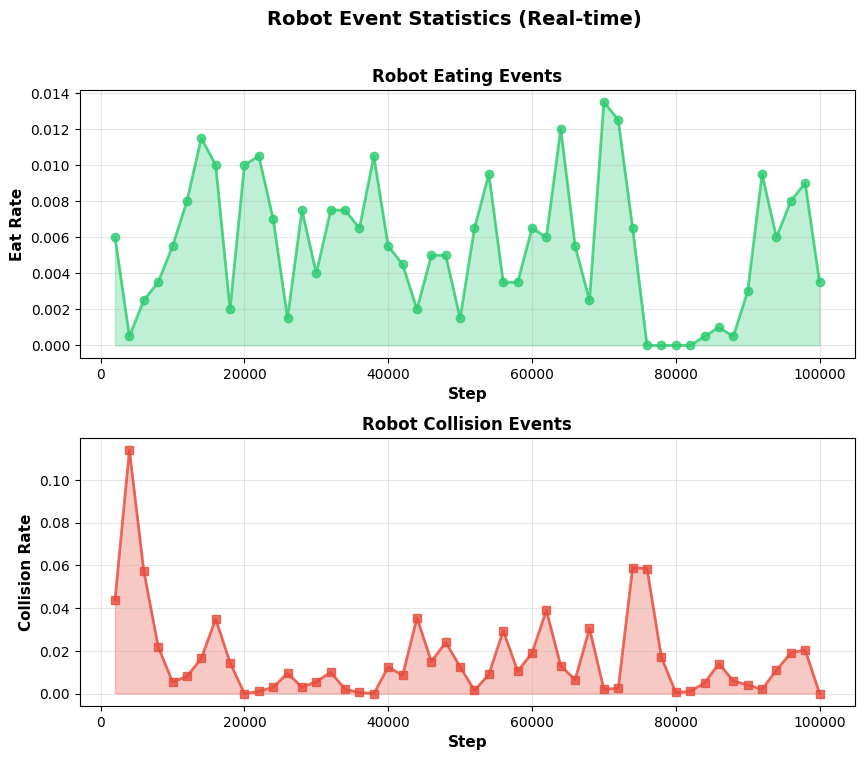
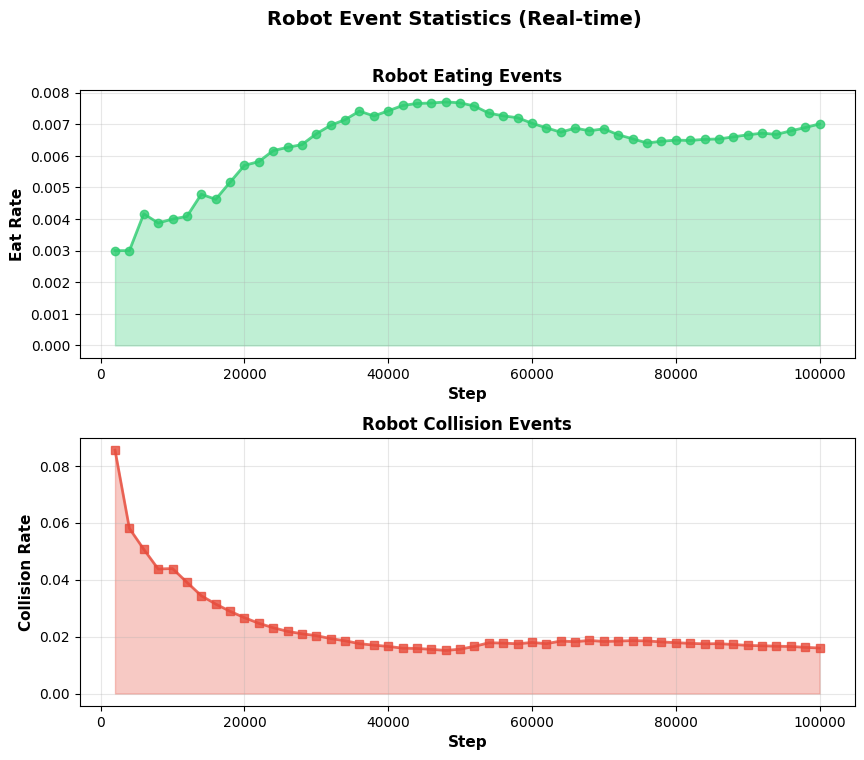
feat:make correction on variable used on plot & code clean up

diff --git a/Assignment6/PyRLSimbot/Assignment_6.py b/Assignment6/PyRLSimbot/Assignment_6.py
@@ -48,8 +48,6 @@ TURN_DEGREE = 18
 
 # Distance buckets for discretising state space
 CLOSE_DISTANCE = 15
-NEAR_DISTANCE = 20
-
 
 MAP_PATH = Path(__file__).with_name("maps").joinpath("default_map.kv")
 MAX_FOOD_DISTANCE = math.hypot(SIMBOTMAP_SIZE[0], SIMBOTMAP_SIZE[1])
@@ -134,11 +132,8 @@ class RL_Robot(Robot):
     # -------------------------- Helpers for state/action --------------------------
 
     def _discretize_distance(self, distance: float, interval: int = 5) -> int:
-        # Clean, deterministic discretization (0 = very close, 3 = far)
         if distance < CLOSE_DISTANCE:
             return 0
-        # if distance < NEAR_DISTANCE:
-        #     return 1
         return 1
 
     def _discretize_smell(self, angle: float) -> int:
@@ -199,15 +194,14 @@ class RL_Robot(Robot):
         next_angle: float,
         prev_distance: float,
         next_distance: float,
-        traverse_distance: float
     ) -> float:
         reward = -0.05  # time penalty to encourage shorter solutions
 
         if action_idx == 0:
             if self.stuck:
-                reward -= 3
+                reward -= 3 # move forward to wall is no good
             elif abs(prev_angle) < 15:
-                reward += 1
+                reward += 1 # move while facing toward food is good
             else:
                 reward += 0.05 # small reward for able to move
         else: # base penalty for unnecessary  turn (will be zero sum by below term)
@@ -225,7 +219,7 @@ class RL_Robot(Robot):
             print(f"[SPIN] Step {step_counter}: Full circle detected! total_rotation={self.total_rotation:.1f}°")
             self.total_rotation = self.total_rotation % 360  # Reset to remaining angle
         
-        if (prev_action == 1 and action_idx == 2) or (prev_action == 2 and action_idx == 1): # alternating spin
+        if (prev_action == 1 and action_idx == 2) or (prev_action == 2 and action_idx == 1): # alternating spin penalty
             reward -= 3
 
         if prev_angle != -1 and next_angle != -1:
@@ -233,21 +227,14 @@ class RL_Robot(Robot):
             reward += 0.02 * (abs(prev_angle) - abs(next_angle))
 
         if self.just_eat:
-            # huge reward
+            # huge reward for eating
             reward += 8
-
 
         if prev_distance is not None and next_distance is not None:
             # reward for closer in distance
             phi_prev = self._potential(prev_distance)
             phi_next = self._potential(next_distance)
-            # if phi_next > phi_prev:
-            #     reward += POTENTIAL_WEIGHT
-            # else:
-            #     reward -= POTENTIAL_WEIGHT
             reward += POTENTIAL_WEIGHT * (phi_next - phi_prev)
-        # if next_distance > 100:
-        #     reward -= 2.5
         
         return reward
 
@@ -283,17 +270,13 @@ class RL_Robot(Robot):
         self.just_eat = False
         current_state, prev_angle = self._observe()
         prev_distance = self._food_distance()
-        prev_x, prev_y = self.pos
 
         action_idx = self._select_action(current_state)
         self._apply_action(action_idx)
         
-
-        next_x, next_y = self.pos
-        distance_moved = euclidian_distance( prev_x, prev_y, next_x, next_y)
         next_state, next_angle = self._observe()
         next_distance = self._food_distance()
-        reward = self._calculate_reward(prev_action ,action_idx, prev_angle, next_angle, prev_distance, next_distance, distance_moved)
+        reward = self._calculate_reward(prev_action ,action_idx, prev_angle, next_angle, prev_distance, next_distance)
         prev_action = action_idx
         self._update_q_values(current_state, action_idx, reward, next_state)
         self._decay_hyperparameters()
@@ -307,20 +290,15 @@ class RL_Robot(Robot):
         
         # # Track events
         step_counter += 1
-        # Plot and reset every 1000 steps
-        # if step_counter == 1:
-            # plot_event_statistics(0, 0, 0)
+        # Plot and reset every PLOT_INTERVAL steps
         if step_counter % PLOT_INTERVAL == 0:
-            eat_rate = (self.eat_count - event_counts['eat'])/ PLOT_INTERVAL
             event_counts['eat'] = self.eat_count
-            hit_rate = (self.collision_count - event_counts['collide'])/ PLOT_INTERVAL
             event_counts['collide'] = self.collision_count # update temp
-            # diagnostics: average reward
             avg_reward = cumulative_reward / PLOT_INTERVAL if cumulative_reward != 0 else 0.0
             cumulative_rewards.append(avg_reward)
             print(f"[DIAG] Steps {step_counter-999}-{step_counter}: avg reward={avg_reward:.4f}")
             cumulative_reward = 0.0
-            plot_event_statistics(step_counter, eat_rate, hit_rate)
+            plot_event_statistics(step_counter, self.eat_count / step_counter, self.collision_count / step_counter)
 
 
 def randomize_objectives(simbot):
